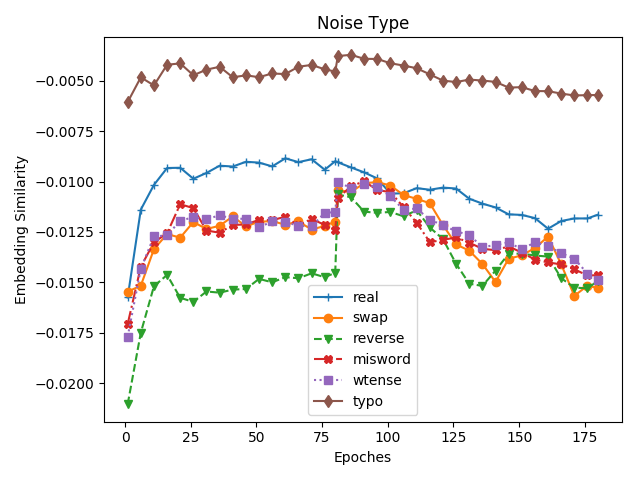
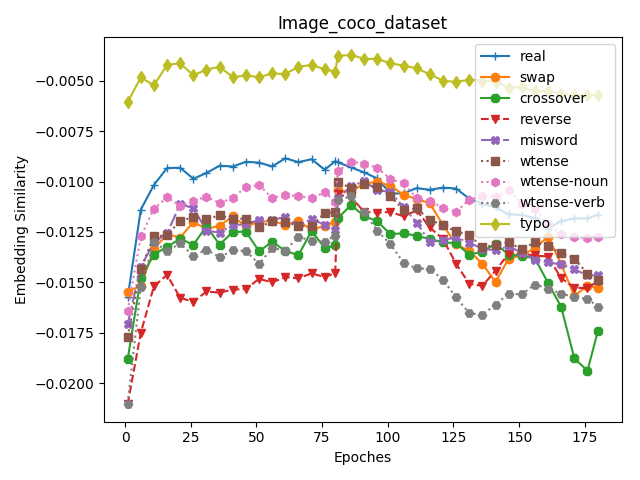
add crossover, noun, verb plot

diff --git a/log/plotpic.py b/log/plotpic.py
@@ -24,6 +24,9 @@ plt.plot(x_real,y_real, linestyle='-', marker='+' ,label='real')
 x_swap, y_swap = load_data('seqgan-swap.csv', 1)
 plt.plot(x_swap,y_swap, linestyle='-', marker='o' ,label='swap')
 
+x_cross, y_cross = load_data('seqgan-crossover.csv', 1)
+plt.plot(x_cross,y_cross, linestyle='-', marker='8' ,label='crossover')
+
 x_reverse, y_reverse = load_data('seqgan-reverse.csv', 1)
 plt.plot(x_reverse,y_reverse, linestyle='--', marker='v' ,label='reverse')
 
@@ -33,12 +36,19 @@ plt.plot(x_misword,y_misword,linestyle='-.', marker='X' ,label='misword')
 x_wtense, y_wtense = load_data('seqgan-wtense.csv', 1)
 plt.plot(x_wtense,y_wtense,linestyle=':', marker='s' ,label='wtense')
 
+x_wtense_n, y_wtense_n = load_data('seqgan-wtense-noun.csv', 1)
+plt.plot(x_wtense_n,y_wtense_n,linestyle=':', marker='h' ,label='wtense-noun')
+
+x_wtense_v, y_wtense_v = load_data('seqgan-wtense-verb.csv', 1)
+plt.plot(x_wtense_v,y_wtense_v,linestyle=':', marker='H' ,label='wtense-verb')
+
 x_typo, y_typo = load_data('seqgan-typo.csv', 1)
 plt.plot(x_typo,y_typo,linestyle='-', marker='d' ,label='typo')
 
 plt.xlabel('Epoches')
 plt.ylabel('Embedding Similarity')
-plt.title("Noise Type")
+# plt.title("Noise Type")
+plt.title("Image_coco_dataset")
 plt.legend()
 
 plt.tight_layout()
@@ -53,6 +63,9 @@ plt.plot(x_real,y_real, linestyle='-', marker='+' ,label='real')
 x_swap, y_swap = load_data('seqgan-swap.csv', 2)
 plt.plot(x_swap,y_swap, linestyle='-', marker='o' ,label='swap')
 
+x_cross, y_cross = load_data('seqgan-crossover.csv', 2)
+plt.plot(x_cross,y_cross, linestyle='-', marker='8' ,label='crossover')
+
 x_reverse, y_reverse = load_data('seqgan-reverse.csv', 2)
 plt.plot(x_reverse,y_reverse, linestyle='--', marker='v' ,label='reverse')
 
@@ -62,12 +75,18 @@ plt.plot(x_misword,y_misword,linestyle='-.', marker='X' ,label='misword')
 x_wtense, y_wtense = load_data('seqgan-wtense.csv', 2)
 plt.plot(x_wtense,y_wtense,linestyle=':', marker='s' ,label='wtense')
 
+x_wtense_n, y_wtense_n = load_data('seqgan-wtense-noun.csv', 2)
+plt.plot(x_wtense_n,y_wtense_n,linestyle=':', marker='h' ,label='wtense-noun')
+
+x_wtense_v, y_wtense_v = load_data('seqgan-wtense-verb.csv', 2)
+plt.plot(x_wtense_v,y_wtense_v,linestyle=':', marker='H' ,label='wtense-verb')
+
 x_typo, y_typo = load_data('seqgan-typo.csv', 2)
 plt.plot(x_typo,y_typo,linestyle='-', marker='d' ,label='typo')
 
 plt.xlabel('Epoches')
 plt.ylabel('NLL-test loss')
-plt.title("Noise Type")
+plt.title("Image_coco_dataset")
 plt.legend()
 
 plt.tight_layout()
